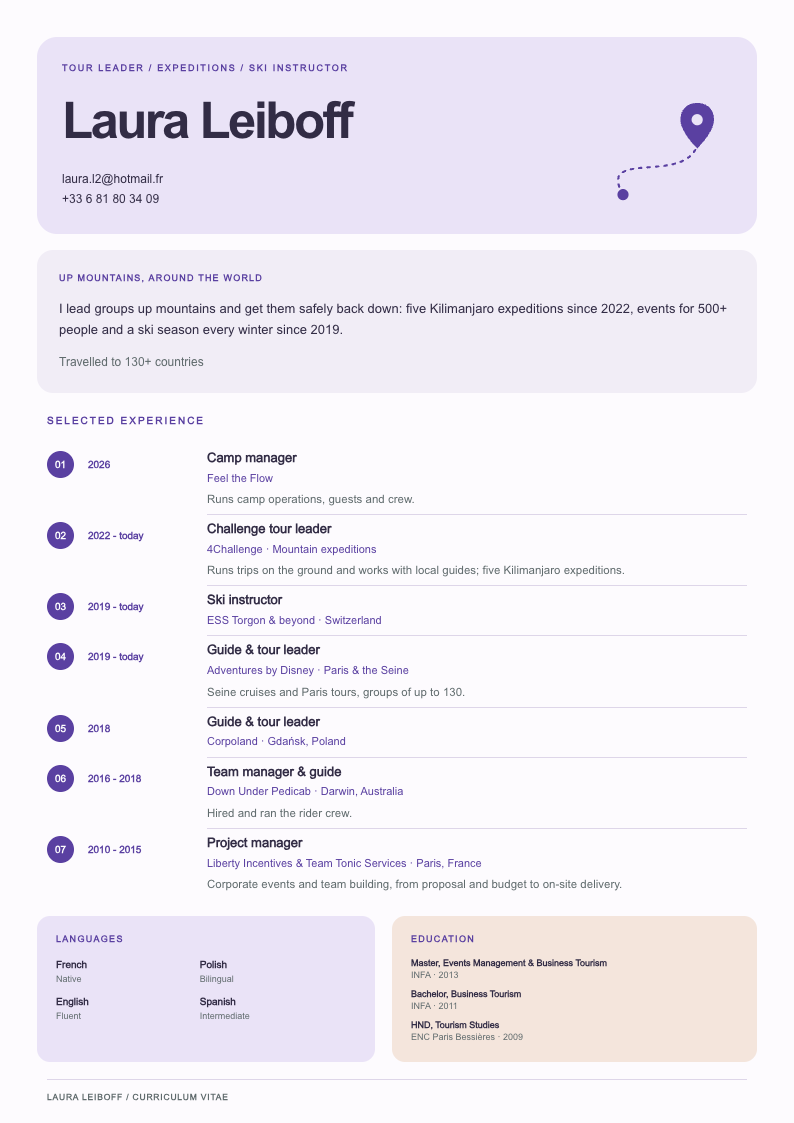
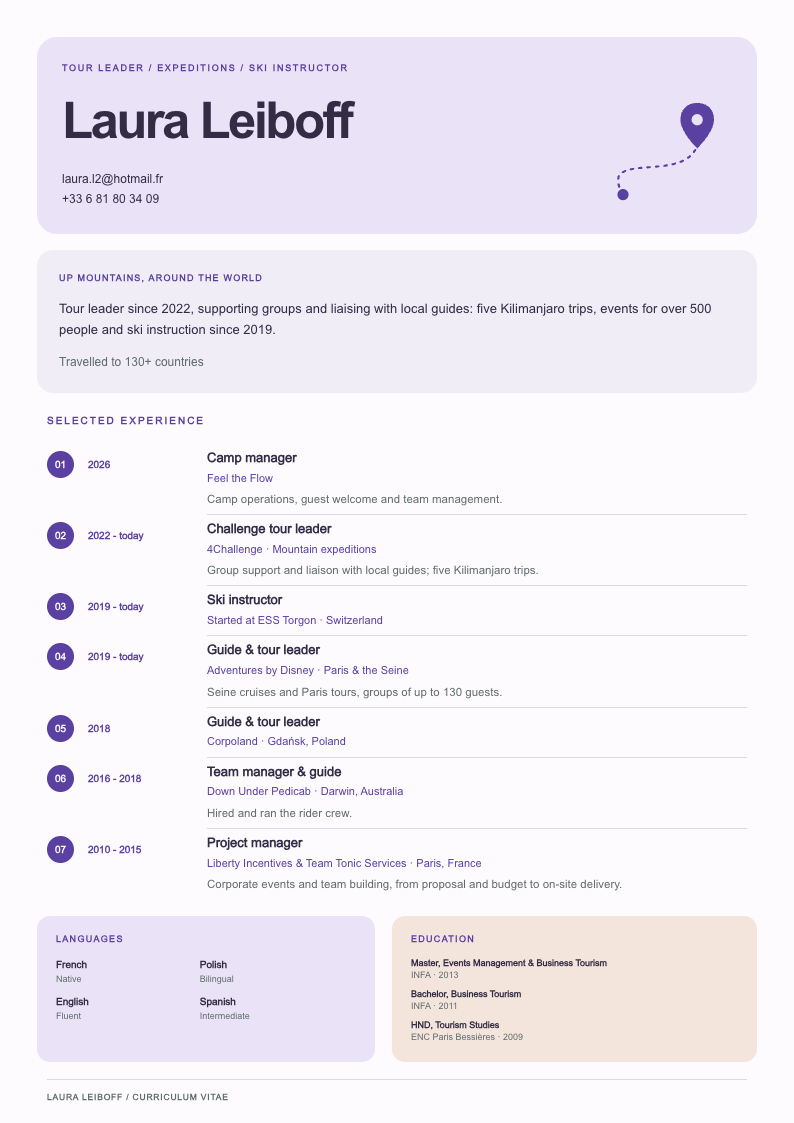
Polish French CV copy and correct career date displays

diff --git a/content.js b/content.js
@@ -11,8 +11,8 @@ window.CV_CONTENT = {
     kilimanjaro: '5',
     eventSize: '500+',
     // Short version for tighter layouts; `about` for designs with room for more.
-    intro: 'I lead groups up mountains and get them safely back down: five Kilimanjaro expeditions since 2022, events for 500+ people and a ski season every winter since 2019.',
-    about: 'I lead groups up mountains and get them safely back down. Since 2022 I\'ve run challenge expeditions on the ground, five of them on Kilimanjaro, as the group\'s point of contact and the link to local guides and crews. Trained in events management in Paris, I\'ve run events for 500+ people, taught skiing every winter since 2019 and managed teams on three continents.',
+    intro: 'Tour leader since 2022, supporting groups and liaising with local guides: five Kilimanjaro trips, events for over 500 people and ski instruction since 2019.',
+    about: 'Since 2022, I have coordinated mountain trips on the ground, including five to Kilimanjaro. I am the group’s point of contact and liaise with local guides and crews. Trained in events management in Paris, I have organised events for over 500 people, taught skiing every winter since 2019 and managed teams on three continents.',
     // [language, level, bar width % used by Summit]
     languages: [
       ['French', 'Native', 100], ['Polish', 'Bilingual', 95],
@@ -29,10 +29,10 @@ window.CV_CONTENT = {
     // `kind` colours the runs on the piste map: manage, expedition, ski, guide.
     // Leave `description` empty when the title says it all; every design skips empty ones.
     jobs: [
-      {from:'2026', title:'Camp manager', company:'Feel the Flow', place:'', kind:'manage', description:'Runs camp operations, guests and crew.'},
-      {from:'2022', to:'now', title:'Challenge tour leader', company:'4Challenge', place:'Mountain expeditions', kind:'expedition', description:'Runs trips on the ground and works with local guides; five Kilimanjaro expeditions.'},
-      {from:'2019', to:'now', title:'Ski instructor', company:'ESS Torgon & beyond', place:'Switzerland', kind:'ski', description:''},
-      {from:'2019', to:'now', title:'Guide & tour leader', company:'Adventures by Disney', place:'Paris & the Seine', kind:'guide', description:'Seine cruises and Paris tours, groups of up to 130.'},
+      {from:'2026', title:'Camp manager', company:'Feel the Flow', place:'', kind:'manage', description:'Camp operations, guest welcome and team management.'},
+      {from:'2022', to:'now', title:'Challenge tour leader', company:'4Challenge', place:'Mountain expeditions', kind:'expedition', description:'Group support and liaison with local guides; five Kilimanjaro trips.'},
+      {from:'2019', to:'now', title:'Ski instructor', company:'Started at ESS Torgon', place:'Switzerland', kind:'ski', description:''},
+      {from:'2019', to:'now', title:'Guide & tour leader', company:'Adventures by Disney', place:'Paris & the Seine', kind:'guide', description:'Seine cruises and Paris tours, groups of up to 130 guests.'},
       {from:'2018', title:'Guide & tour leader', company:'Corpoland', place:'Gdańsk, Poland', kind:'guide', description:''},
       {from:'2016', to:'2018', title:'Team manager & guide', company:'Down Under Pedicab', place:'Darwin, Australia', kind:'manage', description:'Hired and ran the rider crew.'},
       {from:'2010', to:'2015', title:'Project manager', company:'Liberty Incentives & Team Tonic Services', place:'Paris, France', kind:'manage', description:'Corporate events and team building, from proposal and budget to on-site delivery.'}
@@ -75,27 +75,27 @@ window.CV_CONTENT = {
     countries: '130+',
     kilimanjaro: '5',
     eventSize: '500+',
-    intro: 'J\'emmène des groupes en montagne et je les ramène en sécurité : cinq expéditions au Kilimandjaro depuis 2022, des événements pour 500+ personnes et une saison de ski chaque hiver depuis 2019.',
-    about: 'J\'emmène des groupes en montagne et je les ramène en sécurité. Depuis 2022, je gère des expéditions sur le terrain, dont cinq au Kilimandjaro, comme référente du groupe et lien avec les guides et équipes locales. Formée au management événementiel à Paris, j\'ai organisé des événements pour 500+ personnes, j\'enseigne le ski chaque hiver depuis 2019 et j\'ai encadré des équipes sur trois continents.',
+    intro: 'Tour leader depuis 2022, référente des groupes et interlocutrice des guides locaux : cinq voyages au Kilimandjaro, des événements de plus de 500 personnes et l’enseignement du ski depuis 2019.',
+    about: 'Depuis 2022, je coordonne des séjours en montagne sur le terrain, dont cinq au Kilimandjaro. Référente du groupe, j’assure la liaison avec les guides et les équipes locales. Formée à l’événementiel à Paris, j’ai organisé des événements de plus de 500 personnes, enseigné le ski chaque hiver depuis 2019 et encadré des équipes sur trois continents.',
     languages: [
       ['Français', 'Langue maternelle', 100], ['Polonais', 'Bilingue', 95],
       ['Anglais', 'Courant', 85], ['Espagnol', 'Intermédiaire', 60]
     ],
-    strengths: ['Gestion de voyages sur le terrain', 'Encadrement de groupes', 'Enseignement du ski', 'Événements de 500+ personnes'],
+    strengths: ['Gestion de voyages sur le terrain', 'Encadrement de groupes', 'Enseignement du ski', 'Événements de plus de 500 personnes'],
     interests: ['Randonnée', 'Ski', 'Snorkeling', 'Yoga', 'Salsa & bachata', 'Cuisine'],
     education: [
-      ['Master, Management événementiel & tourisme d\'affaires', 'INFA', '2013'],
-      ['Licence, Tourisme d\'affaires', 'INFA', '2011'],
+      ['Master en management événementiel et tourisme d’affaires', 'INFA', '2013'],
+      ['Bachelor en tourisme d’affaires', 'INFA', '2011'],
       ['BTS Tourisme', 'ENC Paris Bessières', '2009']
     ],
     jobs: [
-      {from:'2026', title:'Responsable de camp', company:'Feel the Flow', place:'', kind:'manage', description:'Gère le camp, les clients et l\'équipe.'},
-      {from:'2022', to:'now', title:'Accompagnatrice d\'expéditions', company:'4Challenge', place:'Expéditions en montagne', kind:'expedition', description:'Gère les voyages sur le terrain avec les guides locaux ; cinq expéditions au Kilimandjaro.'},
-      {from:'2019', to:'now', title:'Monitrice de ski', company:'ESS Torgon & ailleurs', place:'Suisse', kind:'ski', description:''},
-      {from:'2019', to:'now', title:'Guide & accompagnatrice', company:'Adventures by Disney', place:'Paris & la Seine', kind:'guide', description:'Croisières sur la Seine et visites de Paris, groupes jusqu\'à 130.'},
+      {from:'2026', title:'Responsable de camp', company:'Feel the Flow', place:'', kind:'manage', description:'Gestion du camp, accueil des participants et encadrement de l’équipe.'},
+      {from:'2022', to:'now', title:'Tour leader', company:'4Challenge', place:'Expéditions en montagne', kind:'expedition', description:'Suivi des groupes et liaison avec les guides locaux ; cinq voyages au Kilimandjaro.'},
+      {from:'2019', to:'now', title:'Monitrice de ski', company:'Débuts à ESS Torgon', place:'Suisse', kind:'ski', description:''},
+      {from:'2019', to:'now', title:'Guide & accompagnatrice', company:'Adventures by Disney', place:'Paris & la Seine', kind:'guide', description:'Croisières sur la Seine et visites de Paris, groupes jusqu’à 130 personnes.'},
       {from:'2018', title:'Guide & accompagnatrice', company:'Corpoland', place:'Gdańsk, Pologne', kind:'guide', description:''},
       {from:'2016', to:'2018', title:'Responsable d\'équipe & guide', company:'Down Under Pedicab', place:'Darwin, Australie', kind:'manage', description:'Recrutement et encadrement de l\'équipe.'},
-      {from:'2010', to:'2015', title:'Cheffe de projet', company:'Liberty Incentives & Team Tonic Services', place:'Paris, France', kind:'manage', description:'Événements d\'entreprise et team building, du budget à la gestion sur place.'}
+      {from:'2010', to:'2015', title:'Cheffe de projet', company:'Liberty Incentives & Team Tonic Services', place:'Paris, France', kind:'manage', description:'Événements d’entreprise et team building : conception, budgets et coordination sur place.'}
     ],
     labels: {
       now: 'aujourd\'hui', switchTo: 'English', allDesigns: '← Tous les designs', print: 'Imprimer / PDF',
@@ -103,8 +103,8 @@ window.CV_CONTENT = {
       strengths: 'Mes atouts', interests: 'Centres d\'intérêt', travelNote: '{n} pays visités',
       countriesTravelled: 'pays visités', countriesVisited: 'Pays visités',
       kiliExpeditions: 'expéditions au Kilimandjaro', kilimanjaro: 'Kilimandjaro', kiboHeight: '5 895 m',
-      eventPeople: 'personnes sur un événement', languagesSpoken: 'langues parlées', languagesShort: 'langues',
-      editorialEyebrow: 'Tour leader / Expéditions / Monitrice de ski', atlasEyebrow: 'Des gens. Des lieux. Des possibles.',
+      eventPeople: 'participants par événement', languagesSpoken: 'langues parlées', languagesShort: 'langues',
+      editorialEyebrow: 'Tour leader / Expéditions / Monitrice de ski', atlasEyebrow: 'Des rencontres. Des lieux. Des horizons.',
       fieldSignoff: 'Curieuse de nature.', fieldInterests: 'Au-delà de l\'itinéraire', studioHeading: 'En montagne, autour du monde',
       summitRoute: 'Le parcours', summitPeak: '5 895 m et plus', summitInterests: 'Temps libre',
       passportName: 'Nom / Prénom', passportProfession: 'Profession', passportNationality: 'Nationalité',
@@ -114,7 +114,7 @@ window.CV_CONTENT = {
       pisteRuns: 'Pistes, par ordre de descente', pisteGuide: 'Accompagnement', pisteSki: 'Enseignement du ski',
       pisteManage: 'Gestion d\'équipe & de camp', pisteExpedition: 'Expéditions', pisteInterests: 'Après-ski',
       galleryTitle: 'Un CV, huit styles.',
-      galleryIntro: 'Accompagnatrice d\'expéditions en montagne et monitrice de ski. Ouvrez un design pour le voir en grand ou l\'enregistrer en PDF.',
+      galleryIntro: 'Tour leader pour des séjours en montagne et monitrice de ski. Ouvrez un design pour le voir en grand ou l\'enregistrer en PDF.',
       d1: 'Éditorial terracotta', d1Text: 'Chaleureux, personnel, un peu magazine.',
       d2: 'Atlas cobalt', d2Text: 'Typographie affirmée, bleu vif et une chronologie claire.',
       d3: 'Carnet forestier', d3Text: 'Ancré, nature et discrètement aventureux.',

diff --git a/claude/render.js b/claude/render.js
@@ -5,10 +5,9 @@
   const esc = x => String(x).replace(/[&<>"']/g, c => ({'&':'&amp;','<':'&lt;','>':'&gt;','"':'&quot;',"'":'&#39;'}[c]));
   const fill = (sel, html) => document.querySelectorAll(sel).forEach(el => { el.innerHTML = html; });
   const range = (j, sep) => esc(j.date.replace(' - ', sep));
-  const start = j => esc(j.date.split(' - ')[0]);
   const at = j => esc([j.company, j.place].filter(Boolean).join(', '));
   const desc = j => j.description ? `<p>${esc(j.description)}</p>` : '';
-  const values = { ...d, languagesCount: d.languages.length };
+  const values = { ...d, languagesCount: d.languages.length, skiStart: d.jobs.find(j => j.kind === 'ski').from };
 
   // Single values: <span data-cv="countries"></span>; an <a data-cv="email"> also gets its mailto.
   document.querySelectorAll('[data-cv]').forEach(el => {
@@ -39,7 +38,7 @@
   }
 
   if (design === 'riso') {
-    fill('[data-jobs]', d.jobs.map(j => `<li><div class="yr">${start(j)}${j.to === 'now' ? ' —' : ''}</div>
+    fill('[data-jobs]', d.jobs.map(j => `<li><div class="yr">${esc(j.from)}${j.to ? `<span class="date-end">– ${esc(j.to === 'now' ? d.labels.now : j.to)}</span>` : ''}</div>
       <div><h3>${esc(j.title)} <span class="at">${esc(j.company)}</span></h3>${desc(j)}</div></li>`).join(''));
     fill('[data-languages]', d.languages.map(([l, lvl]) => `<li><b>${esc(l)}</b> ${esc(lvl.toLowerCase())}</li>`).join(''));
     fill('[data-education]', d.education.map(([t, org, y]) => `<li>${esc(t)}, ${esc(org)} — ${esc(y)}</li>`).join(''));

diff --git a/claude/1-summit.html b/claude/1-summit.html
@@ -89,6 +89,7 @@
 
   .route { list-style: none; margin: 0; padding: 0; border-left: 3px dotted var(--sunrise); }
   .route li { position: relative; padding: 0 0 2.4mm 6mm; }
+  html[lang="fr"] .route li { padding-bottom: 1.8mm; }
   .route li::before {
     content: ""; position: absolute; left: -7px; top: 3px;
     width: 11px; height: 11px; border-radius: 50%;
@@ -202,7 +203,7 @@
         <text class="camp-year" x="30" y="245">2016</text><text class="camp-label" x="30" y="228">Darwin</text>
         <text class="camp-year" x="150" y="213">2018</text><text class="camp-label" x="150" y="196">Gdańsk</text>
         <text class="camp-year" x="270" y="178">2019</text><text class="camp-label" x="270" y="161">Paris</text>
-        <text class="camp-year" x="390" y="138">2020</text><text class="camp-label" x="390" y="121">Torgon</text>
+        <text class="camp-year" x="390" y="138" data-cv="skiStart"></text><text class="camp-label" x="390" y="121">Torgon</text>
         <text class="camp-year" x="520" y="85">2022</text><text class="camp-label" x="520" y="68" data-label="kilimanjaro">Kilimanjaro</text>
         <text class="camp-year" x="610" y="22">2026</text><text class="camp-label" x="568" y="42" data-label="summitPeak">5,895 m and up</text>
       </g>

diff --git a/claude/3-riso.html b/claude/3-riso.html
@@ -98,6 +98,7 @@
   .jobs li { display: grid; grid-template-columns: 22mm 1fr; gap: 3mm; padding: 1.7mm 0; border-top: 2px solid var(--blue); }
   .jobs li:last-child { border-bottom: 2px solid var(--blue); }
   .yr { font-family: "Anton", sans-serif; font-size: 13pt; color: var(--blue); line-height: 1.1; }
+  .yr .date-end { display: block; margin-top: 3px; font: 500 9pt/1.2 "Archivo", sans-serif; }
   .jobs h3 { margin: 0; font-size: 11pt; font-weight: 700; }
   .jobs p { margin: .6mm 0 0; }
   .jobs .at { color: var(--pink); font-weight: 700; }

diff --git a/styles.css b/styles.css
@@ -31,3 +31,8 @@
 .atlas main{padding-bottom:60px}.atlas .job+.job{margin-top:7px}.atlas .job:after{bottom:-7px}
 .field main{padding-bottom:60px}.field .job+.job{margin-top:18px}
 .studio .sheet{padding-bottom:60px}.studio .job+.job{margin-top:6px}
+
+/* French copy needs a little less vertical spacing, without reducing type size. */
+html[lang="fr"] .editorial .job+.job{margin-top:8px}
+html[lang="fr"] .editorial .education{margin-top:20px}
+html[lang="fr"] .field .job+.job{margin-top:16px}
